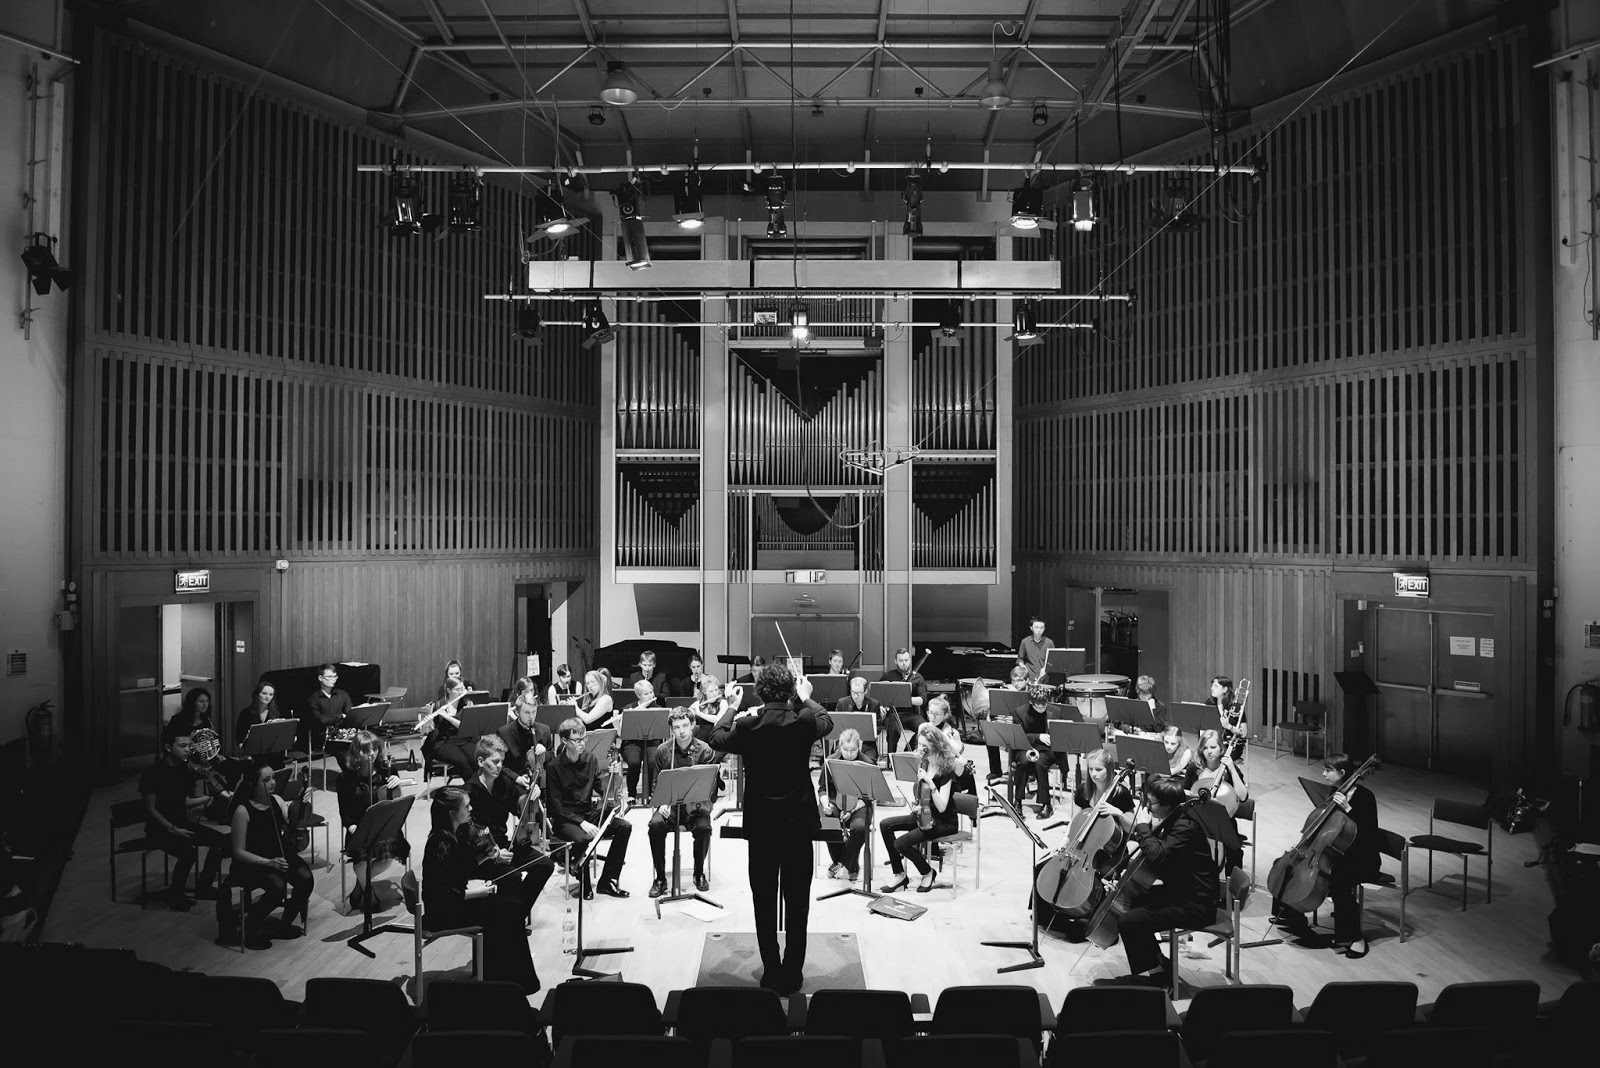
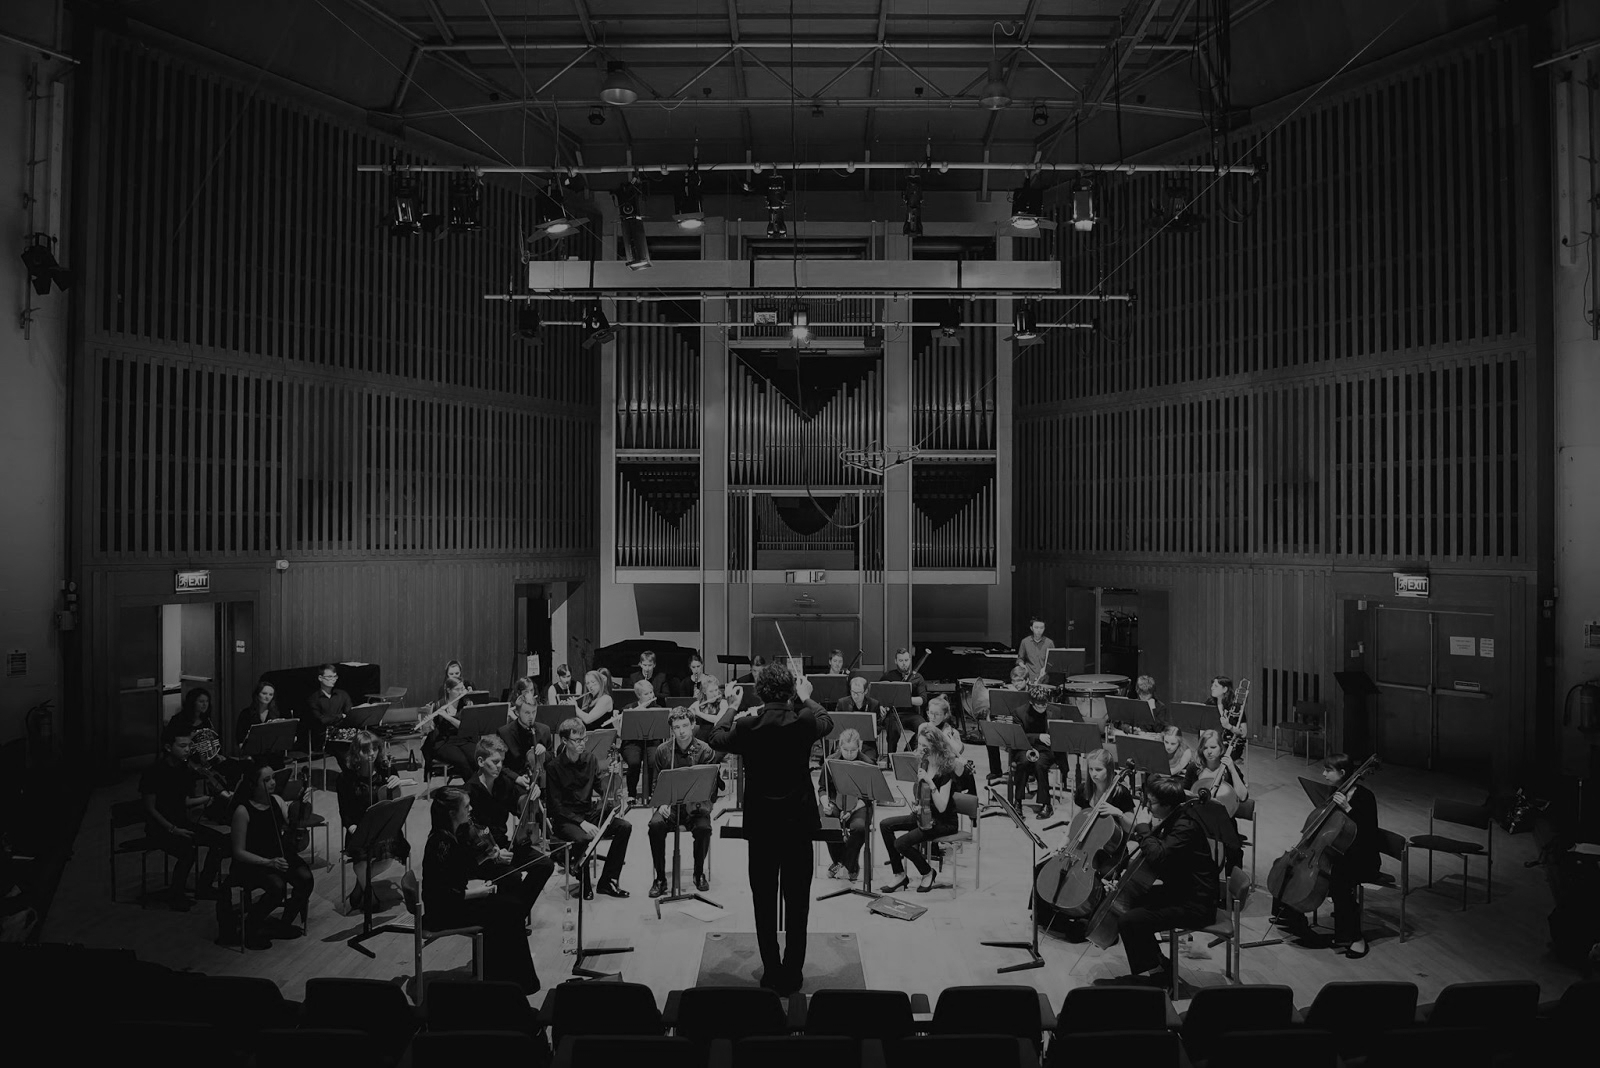
Main webpage done

diff --git a/index.html b/index.html
@@ -4,19 +4,49 @@
     <meta content="text/html; charset=utf-8" http-equiv="content-type">
     <meta http-equiv="X-UA-Compatible" content="IE=edge">
     <meta name="viewport" content="width=device-width, initial-scale=1">
-    <title>UYCO - Home</title>
+    <title>UYCO</title>
+    <link rel="stylesheet"
+     href="https://unpkg.com/purecss@0.6.2/build/pure.css">
+    
+    <!--[if lte IE 8]>
+      <link rel="stylesheet" href="https://unpkg.com/purecss@0.6.2/build/grids-responsive-old-ie-min.css">
+    <![endif]-->
+    <!--[if gt IE 8]><!-->
+      <link rel="stylesheet" href="https://unpkg.com/purecss@0.6.2/build/grids-responsive-min.css">
+    <!--<![endif]-->
+    <link rel="stylesheet" href="https://cdnjs.cloudflare.com/ajax/libs/hover.css/2.1.0/css/hover.css" />
+
     <link href="index.css" rel="stylesheet">
     <script src="lib/jquery-1.12.3.min.js"></script>
     <script type="text/javascript" src="index.js" defer="defer"></script>
+
     <!--
-    <script src="lib/bootstrap/js/bootstrap.min.js"></script>    <link href="lib/bootstrap/css/bootstrap.min.css" rel="stylesheet">    <link href="lib/bootstrap/css/bootstrap-theme.min.css" rel="stylesheet">    -->
+    <link href="lib/bootstrap/css/bootstrap-theme.min.css" rel="stylesheet">
+    -->
     <!--[if lt IE 9]>
       <script src="https://oss.maxcdn.com/html5shiv/3.7.2/html5shiv.min.js"></script>      <script src="https://oss.maxcdn.com/respond/1.4.2/respond.min.js"></script>    <![endif]-->
   </head>
-  <body style="background-color: black">
-    <header class="title parralax">
-      <div class="bg_img parralax">&nbsp;</div>
-      <div class="title_content"> <img src="img/logo.png">
+  <body>
+    <nav>
+      <div class="nav-container">
+        <div class="nav-logo">
+          <img style="width: 50px" src="img/logo.png">
+          <span>
+            University of York Concert Orchestra
+          </span>
+        </div>
+        <div class="nav-menu">
+          <a href="/" class="hvr-underline-reveal">
+            Home
+          </a>
+          <a href="/Contact" class="hvr-underline-reveal">
+            Contact
+          </a>
+        </div>
+      </div>
+    </nav>
+    <header style="background-image: url(img/home_bg.jpg)" class="title parralax cover-img">
+        <img src="img/logo.png">
         <h1>University of York Concert Orchestra </h1>
         <hr>
         <h3>We are a non-auditioning orchestra based at the University of York
@@ -24,5 +54,46 @@
           classical music. </h3>
       </div>
     </header>
+    <section class="pure-g">
+      <div class="pure-u-1 pure-u-md-1-2">
+        <div class="text-block">
+          <h2>
+            Welcome!
+          </h2>
+          <p>
+            We are a non-auditioning orchestra who performs at least two concerts a year. We play a wide range of music,
+            from classical favourites to film scores. We meet on a Sunday evening, from 5pm-7pm, for a two-hour rehearsal
+            with a break in the middle (biscuits provided!). Concert Orchestra is a good way to continue playing an instrument
+            in an informal and social environment.
+          </p>
+          <p>
+            We welcome all students and you do not have to audition, although the recommended standard is around Grade 6.
+          </p>
+          <p>
+            Rehearsals are held in the Sir Jack Lyons Concert Hall. We look forward to seeing you there!
+          </p>
+          <br />
+          <a href="https://www.facebook.com/groups/621522944689258/">
+            <button>Join the Facebook group</button>
+          </a>
+        </div>
+      </div>
+      <div class="pure-u-1 pure-u-md-1-2">
+        <iframe
+          style="width:100%;height:100%"
+          frameborder="0" style="border:0"
+          src="https://www.google.com/maps/embed/v1/place?key=AIzaSyB0KjL8wwgjEhQVZryinylRooomrwsPIdk&q=Sir-Jack-Lyons-Concert-Hall"
+          allowfullscreen>
+        </iframe>
+      </div>
+    </section>
+    <footer>
+      <img style="width: 70px;padding-bottom:10px;" src="img/logo.png">
+      <br />
+      <div style="padding-bottom: 5px" class="footer-main">
+          UYCO
+      </div>
+      <div style="font-size: 12px;padding-bottom: 20px;">concertorchestra@yusu.org</div>
+    </footer>
   </body>
 </html>

diff --git a/index.css b/index.css
@@ -1,15 +1,100 @@
 @import url('https://fonts.googleapis.com/css?family=Oswald');
 @import url('https://fonts.googleapis.com/css?family=Raleway:300');
+@import url('https://fonts.googleapis.com/css?family=Merriweather');
 
 header{
     width: 100%;
+    /*background:url("img/home_bg.jpg") fixed;*/
+    height: 100%;
+    background-size: cover;
+    color: white;
 }
 
-.title_content{
+nav{
+    position: fixed;
+    width: 100%;
+    color: white;
+    /* transition: background-color 0.1s; */
+    background: linear-gradient(to bottom, #333 0%,rgba(51, 51, 51, 0) 100%);
+}
+button{
+    font-size: 100%;
+    padding: 0.5em 1em;
+    color: rgba(0, 0, 0, 0.80);
+    border: none;
+    background-color: #E6E6E6;
+    text-decoration: none;
+    border-radius: 2px;
+    -webkit-transition-duration: 0.3s;
+    transition-duration: 0.3s;
+    -webkit-transition-property: color, background-color;
+    transition-property: color, background-color;
+}
+
+button:hover{
+    color: white;
+    background-color: #000;
+}
+
+.nav-container{
+    padding: 7px;
+    padding-left: 30px;
+    padding-right: 30px;
+    background-color: initial;
+}
+
+.nav-logo{display: inline-block;}
+
+.nav-logo img{
+    width: 50px;
+    vertical-align: middle;
+    padding-right: 5px;
+}
+
+.nav-menu {
+    float: right;
+    padding-top: 7px;
+}
+
+.nav-menu a{
+    padding: 10px;
+    text-decoration: none;
+    color: white;
+}
+
+.text-block{
+    padding: 20px;
+    padding-left:60px;
+    padding-right:60px;
+    max-width:500px;
+    text-align: center;
+}
+
+.text-block * {
+    text-align: left;
+}
+
+.title{
     width: 100%;
     padding-top: 70px;
     padding-bottom: 50px;
     text-align:center;
+}
+
+.parralax-container{
+    position: relative;
+}
+
+footer{
+    /* font-family: 'Oswald', sans-serif; */
+    margin: 0 auto;
+    text-align: center;
+    padding-top: 50px;
+    /* font-family: 'Railway'; */
+}
+
+.footer-main{
+    font-family: 'Oswald', sans-serif;
 }
 
 .parralax{
@@ -17,25 +102,22 @@ header{
     transition-property: background-position;
 }
 
-.bg_img{
-    background:url("img/home_bg_color.jpg") fixed;
-    filter: grayscale(1) brightness(0.6);
+.cover-img{
     width: 100%;
     height: 100%;
-    position: absolute;
+    background-attachment: fixed;
     background-size: cover;
-    z-index: -1;
 }
 
 h1{
-    font-size: 74px;
+    font-family: 'Oswald', sans-serif;
+    font-size: 72px;
     max-width: 500px;
     margin: 0 auto;
     line-height: 96.2px;
 }
 
 h3{
-    font-family: 'Raleway', sans-serif;
     font-weight:normal;
     font-size: 16px;
     margin: 0 auto;
@@ -50,7 +132,13 @@ hr{
 
 body{
     margin: 0px;
-    min-height:3000px;
-    font-family: 'Oswald', sans-serif;
-    color: white;
+    font-size: 14px;
+    color: #333;
+    background-color: #fff;
+    font-family: 'Raleway', sans-serif;
+}
+
+html, button, input, select, textarea,
+.pure-g [class *= "pure-u"] {
+    font-family: 'Raleway', sans-serif
 }

diff --git a/index.js b/index.js
@@ -1,5 +1,12 @@
 $(window).scroll(function () {
-    var pos = $(window).scrollTop() + 1;
+    var scrollPosition = $(window).scrollTop();
 
-    $(".parralax").css("background-position", "0 " + (-pos * 0.5 -66.3) + "px");
+    $(".parralax").css("background-position", "0 " + (-scrollPosition * 0.5 - 66.3) + "px");
+
+    if(scrollPosition > 100){
+        $("nav").css("background-color", "#333")
+    }
+    else{
+        $("nav").css("background-color", "initial")
+    }
 });

diff --git a/p/index.html b/p/index.html
@@ -1,0 +1,15 @@
+<!DOCTYPE html>
+<html lang="en">
+  <head>
+    <title>UYCO</title>
+    <link rel="stylesheet"
+     href="https://unpkg.com/purecss@0.6.2/build/pure.css">
+	<link rel="stylesheet" href="https://unpkg.com/purecss@0.6.2/build/grids-responsive-min.css">
+  </head>
+  <body>
+	<div class="pure-g">
+		<div class="pure-u-1-2">hi</div>
+		<div class="pure-u-1-2">hello</div>
+	</div>
+  </body>
+</html>
